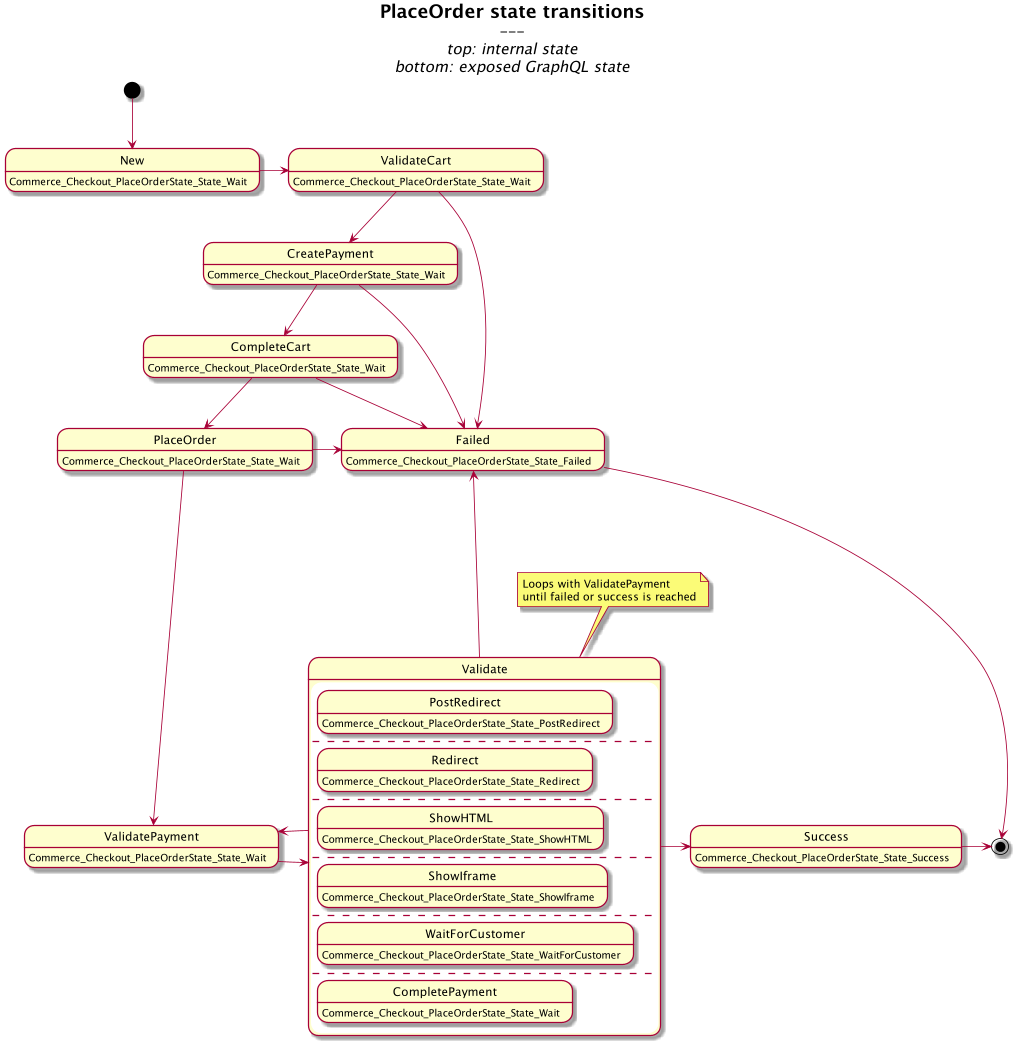
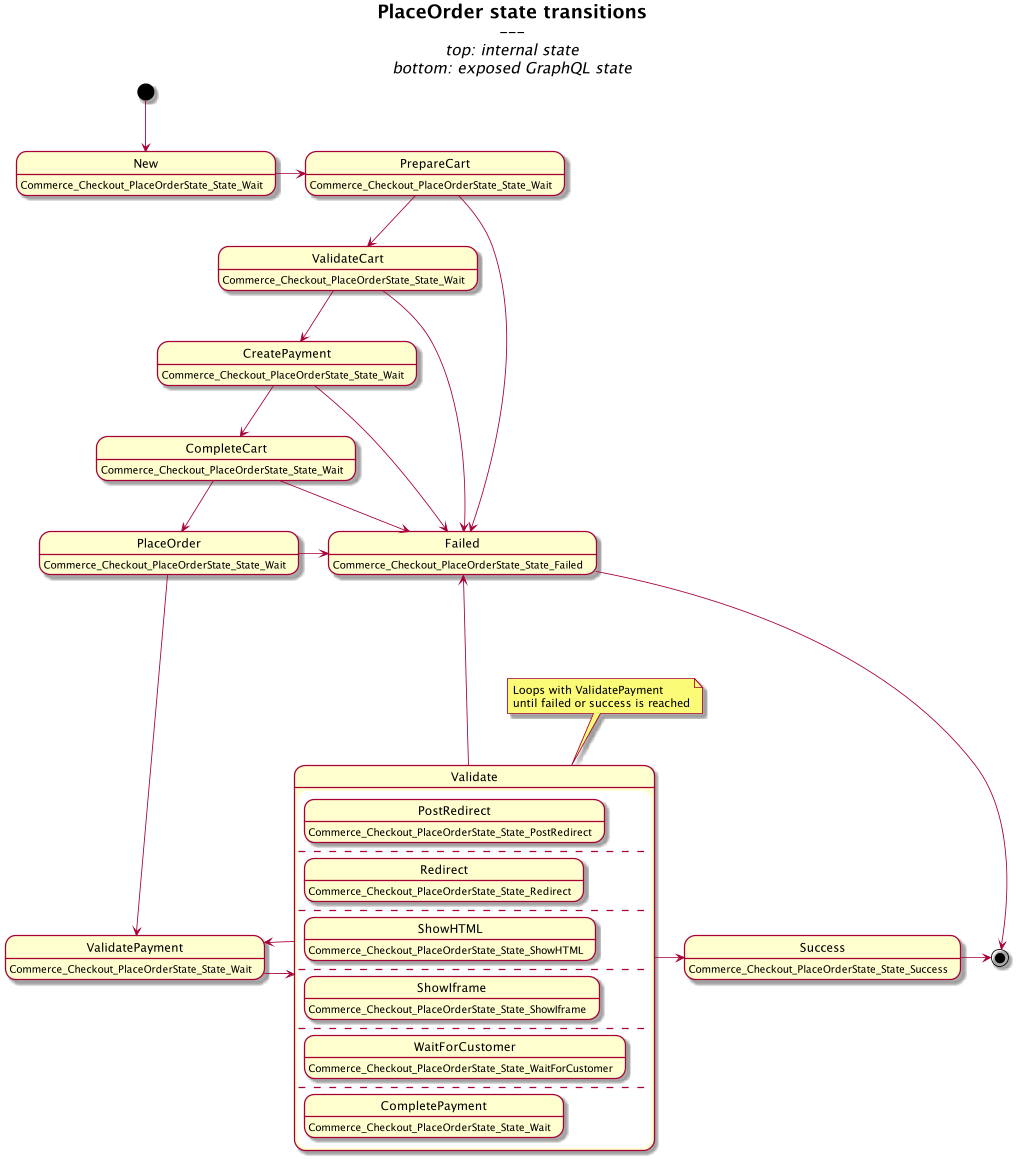
checkout: Add new PrepareCart state

diff --git a/checkout/domain/placeorder/states/prepare_cart.go b/checkout/domain/placeorder/states/prepare_cart.go
@@ -1,0 +1,82 @@
+package states
+
+import (
+	"context"
+	"errors"
+
+	"flamingo.me/flamingo/v3/framework/web"
+	"go.opencensus.io/trace"
+
+	"flamingo.me/flamingo-commerce/v3/cart/application"
+	"flamingo.me/flamingo-commerce/v3/checkout/domain/placeorder/process"
+)
+
+type (
+	// PrepareCart state
+	PrepareCart struct {
+		cartService *application.CartService
+	}
+)
+
+var _ process.State = PrepareCart{}
+
+// Inject dependencies
+func (v *PrepareCart) Inject(
+	cartService *application.CartService,
+) *PrepareCart {
+	v.cartService = cartService
+
+	return v
+}
+
+// Name get state name
+func (PrepareCart) Name() string {
+	return "PrepareCart"
+}
+
+// Run the state operations
+func (v PrepareCart) Run(ctx context.Context, p *process.Process) process.RunResult {
+	ctx, span := trace.StartSpan(ctx, "placeorder/state/PrepareCart/Run")
+	defer span.End()
+
+	cart, err := v.cartService.ForceReserveOrderIDAndSave(ctx, web.SessionFromContext(ctx))
+	if err != nil {
+		return process.RunResult{
+			Failed: process.ErrorOccurredReason{Error: err.Error()},
+		}
+	}
+
+	if cart.PaymentSelection == nil {
+		return process.RunResult{
+			Failed: process.PaymentErrorOccurredReason{Error: errors.New("PaymentSelection not set").Error()},
+		}
+	}
+
+	paymentSelection, err := cart.PaymentSelection.GenerateNewIdempotencyKey()
+	if err != nil {
+		return process.RunResult{
+			Failed: process.ErrorOccurredReason{Error: err.Error()},
+		}
+	}
+
+	err = v.cartService.UpdatePaymentSelection(ctx, web.SessionFromContext(ctx), paymentSelection)
+	if err != nil {
+		return process.RunResult{
+			Failed: process.ErrorOccurredReason{Error: err.Error()},
+		}
+	}
+
+	p.UpdateState(ValidateCart{}.Name(), nil)
+	p.UpdateCart(*cart)
+	return process.RunResult{}
+}
+
+// Rollback the state operations
+func (v PrepareCart) Rollback(context.Context, process.RollbackData) error {
+	return nil
+}
+
+// IsFinal if state is a final state
+func (v PrepareCart) IsFinal() bool {
+	return false
+}

diff --git a/checkout/module.go b/checkout/module.go
@@ -61,6 +61,7 @@ func (m *Module) Configure(injector *dingo.Injector) {
 	injector.Bind(new(process.State)).AnnotatedWith("startState").To(states.New{})
 	injector.Bind(new(process.State)).AnnotatedWith("failedState").To(states.Failed{})
 	injector.BindMap(new(process.State), new(states.New).Name()).To(states.New{})
+	injector.BindMap(new(process.State), new(states.PrepareCart).Name()).To(states.PrepareCart{})
 	injector.BindMap(new(process.State), new(states.ValidateCart).Name()).To(states.ValidateCart{})
 	injector.BindMap(new(process.State), new(states.CreatePayment).Name()).To(states.CreatePayment{})
 	injector.BindMap(new(process.State), new(states.CompleteCart).Name()).To(states.CompleteCart{})
@@ -77,6 +78,7 @@ func (m *Module) Configure(injector *dingo.Injector) {
 
 	// bind internal states to graphQL states
 	injector.BindMap(new(dto.State), new(states.New).Name()).To(dto.Wait{})
+	injector.BindMap(new(dto.State), new(states.PrepareCart).Name()).To(dto.Wait{})
 	injector.BindMap(new(dto.State), new(states.ValidateCart).Name()).To(dto.Wait{})
 	injector.BindMap(new(dto.State), new(states.CreatePayment).Name()).To(dto.Wait{})
 	injector.BindMap(new(dto.State), new(states.CompleteCart).Name()).To(dto.Wait{})

diff --git a/checkout/domain/placeorder/states/new.go b/checkout/domain/placeorder/states/new.go
@@ -25,7 +25,7 @@ func (n New) Run(ctx context.Context, p *process.Process) process.RunResult {
 	_, span := trace.StartSpan(ctx, "placeorder/state/New/Run")
 	defer span.End()
 
-	p.UpdateState(ValidateCart{}.Name(), nil)
+	p.UpdateState(PrepareCart{}.Name(), nil)
 
 	return process.RunResult{}
 }
